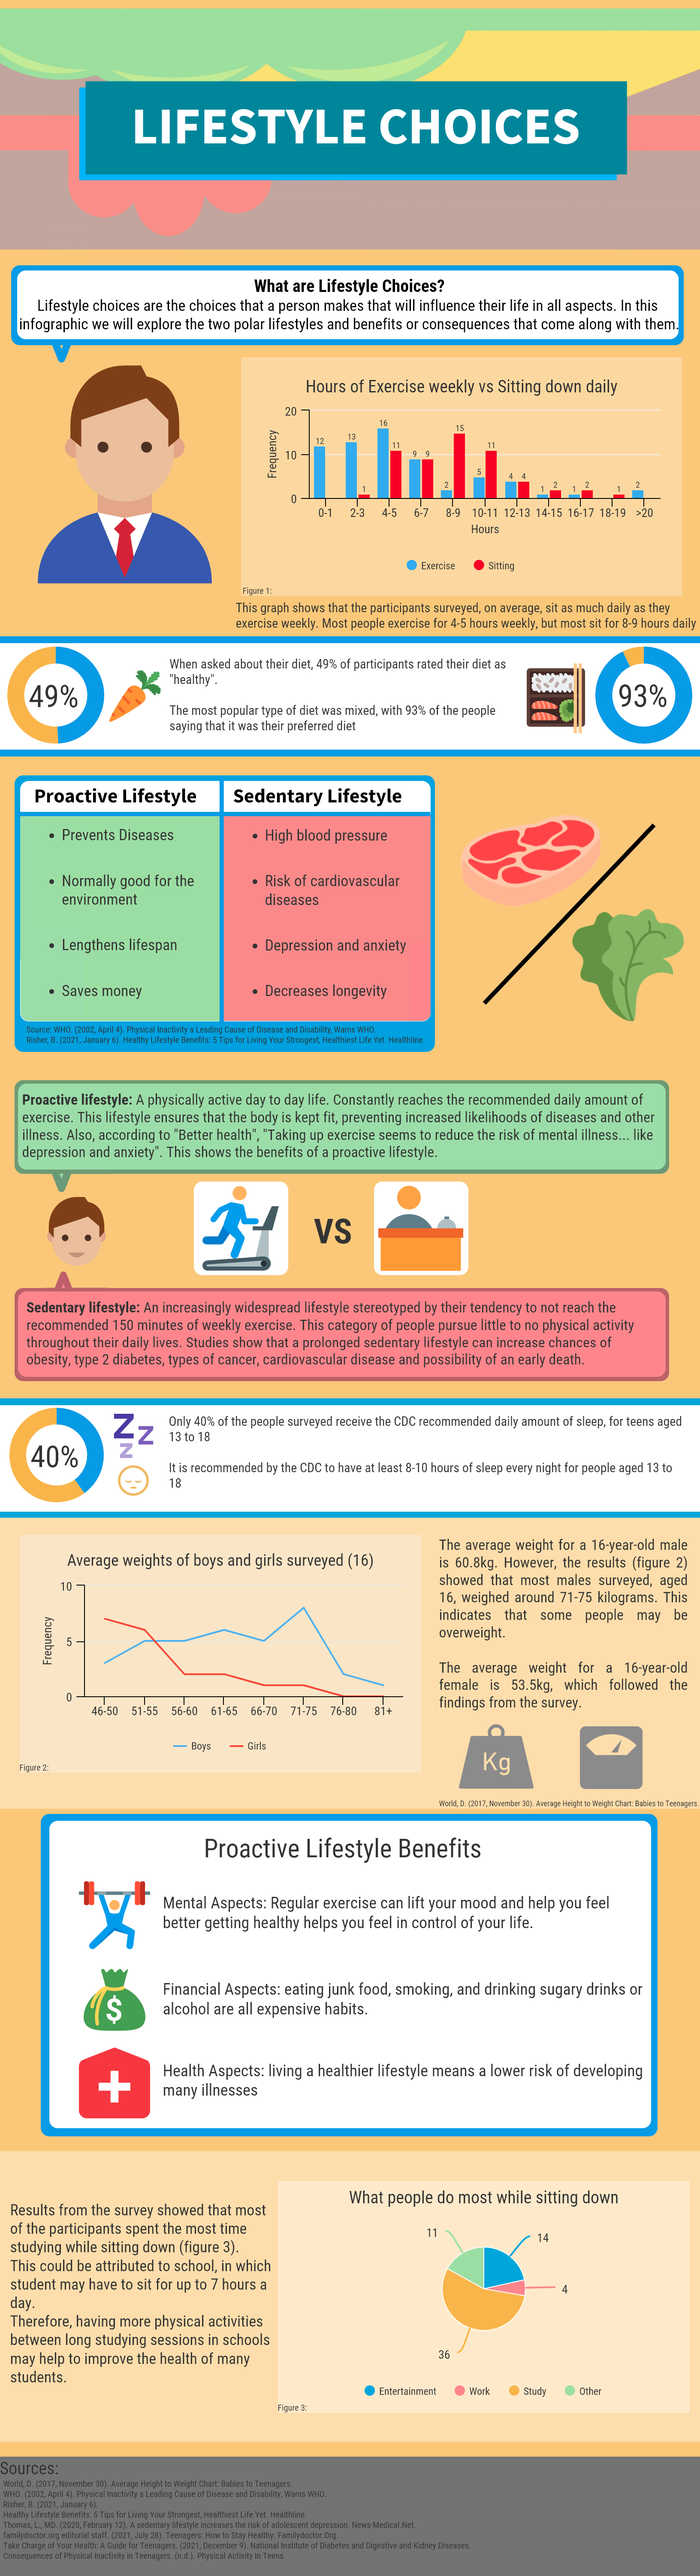
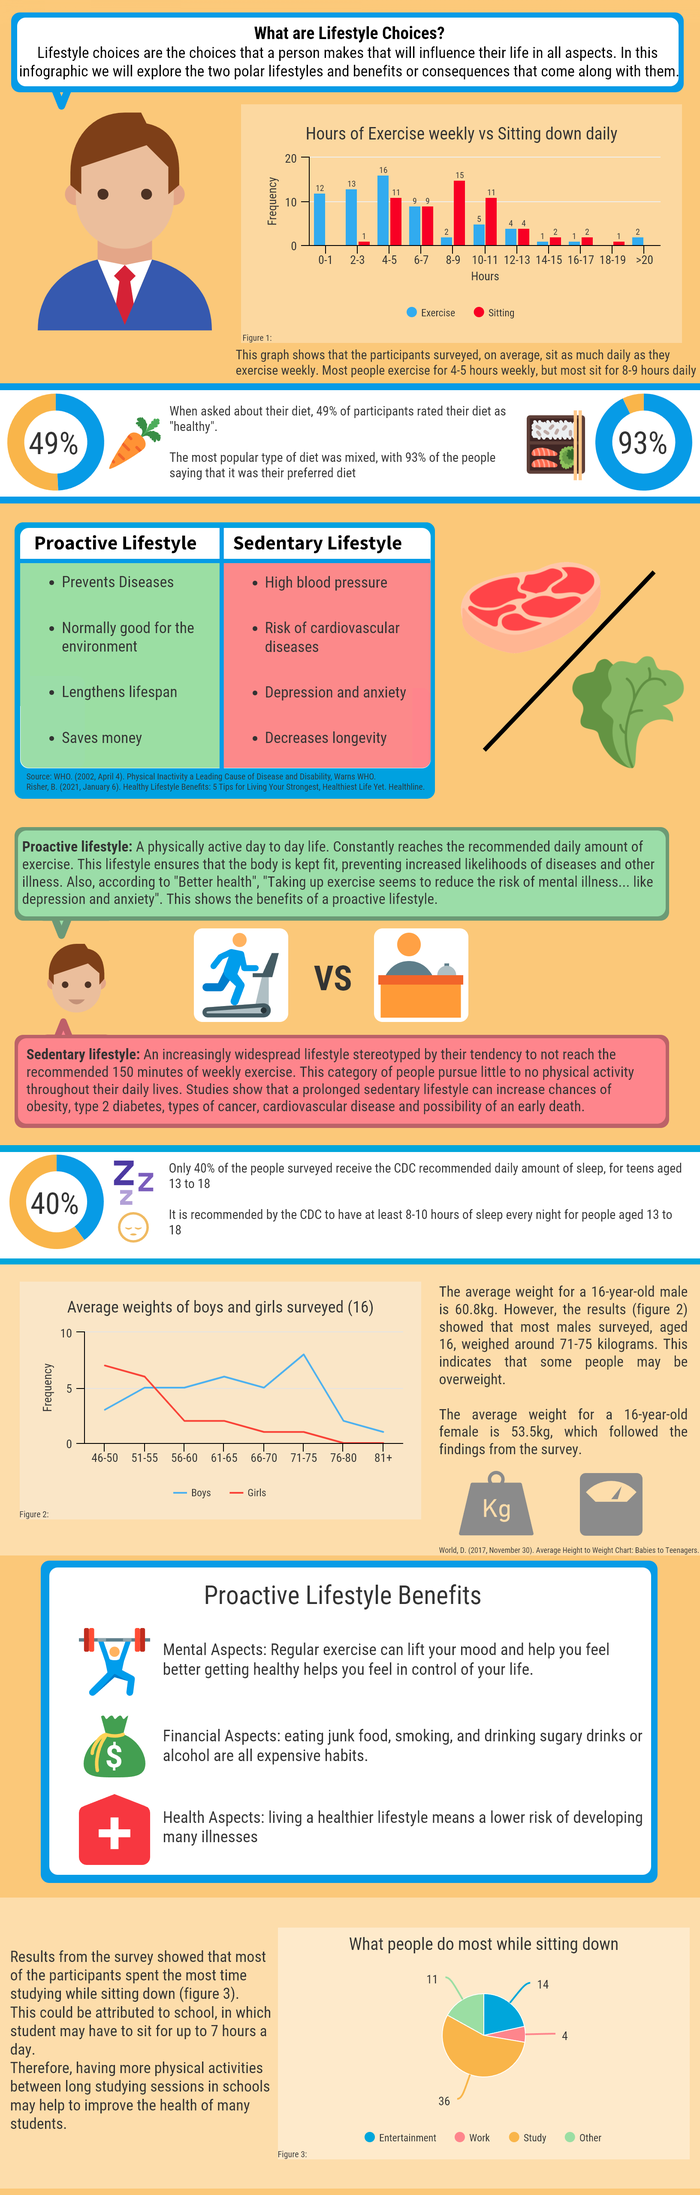
title changes

diff --git a/styling.css b/styling.css
@@ -2,13 +2,9 @@
 #container{
 	width: 100%;
 	border-style:none;
-	
-
-
 }
 #header{
-	width:85%;
-	
+	width:85%;	
 }
 #header h1{
 	font-family: Arial, Helvetica, sans-serif;
@@ -17,25 +13,15 @@
 	text-align:center;
 	background-color: blue;
 	border: white;
-	
-
-
-
 }
 #content{
 	font-family: 'Gill Sans', 'Gill Sans MT', Calibri, 'Trebuchet MS', sans-serif;
-
-
-
-
 }
 #side {
 	width:11%;
 	vertical-align:top;
 	border-right:1px solid;
 	padding-bottom: 5px;
-
-
 }
 #sidebar{
 	border:1px solid;
@@ -48,13 +34,10 @@
 	left:0;
 	font-family: Arial, Helvetica, sans-serif;
 	background-color: white;
-	
 }
 
 body{
-	Background-color:rgb(236,162,73);
-	
-	
+	Background-color:rgb(251, 200, 121);
 }
 #infographic {
 	display: block;
@@ -65,13 +48,13 @@ body{
 	display: block;
 	margin-left: auto;
 	margin-right: auto;
-	background-color: aqua;
+	background-color: rgb(77, 234, 255);
 }
-.boxed {
+/*.boxed {
 	border: 1px solid white;
 	width: 500px;
 	background-color: aqua;
-}
+}*/
 a:link {
 	color: black;
 	font-family: Arial, Helvetica, sans-serif;
@@ -80,7 +63,6 @@ a:link {
 	background-color: white;
 	line-height: 2;
 	border: 1px solid black;
-	
 }
 a:visited{
 	color:black;
@@ -89,7 +71,6 @@ a:visited{
 	text-decoration: none;
 	background-color: white;
 	border: 1px solid black;
-	
 }
 #introduction{
 	font-family: Arial, Helvetica, sans-serif;
@@ -98,4 +79,9 @@ a:visited{
 #sbtitle{
 	font-size: 22px;
 	line-height: 1.5;
+}
+#googleform{
+	display:block;
+	margin-left: auto;
+	margin-right: auto;
 }

diff --git a/index.html b/index.html
@@ -20,7 +20,7 @@
 			
 			<td id = "header" class = "boxed">
 			<!--<h1>Lifestyle Choices</h1> (text by itself)-->
-			<img src="header.png" id="headerimg" alt="header" width="60%">
+			<img src="title.png" id="headerimg" alt="header" width="105%">
 			</td>
 		</tr>
 			<td id = "content">
@@ -56,7 +56,8 @@
 
 				<span id = "infographic">
 					<link rel="stylesheet" href="styling.css">
-					<img src="infographic.png" id="infographic" alt="infographic" width="50%">
+					<img src="header.png" id="headerimg" width = "80%">
+					<img src="infographic.png" id="infographic" alt="infographic" width="80%">
 					<p>2</p>
 					<p>2</p>
 					<p>2</p>
@@ -73,7 +74,7 @@
 					<p>2</p>
 					<p>2</p>
 					<p>2</p>
-					<iframe src="https://docs.google.com/forms/d/e/1FAIpQLSdmxnj9H9oarZZTvDu9sXmS__XJFxMie1DP85ZSb2W3IowVUg/viewform?embedded=true" width="700" height="520" frameborder="0" marginheight="0" marginwidth="0">Loading…</iframe>
+					<iframe src="https://docs.google.com/forms/d/e/1FAIpQLSdmxnj9H9oarZZTvDu9sXmS__XJFxMie1DP85ZSb2W3IowVUg/viewform?embedded=true" id="googleform" width="700" height="520" frameborder="0" >Loading…</iframe>
 					<p>2</p>
 					<p>2</p>
 					<p>2</p>
